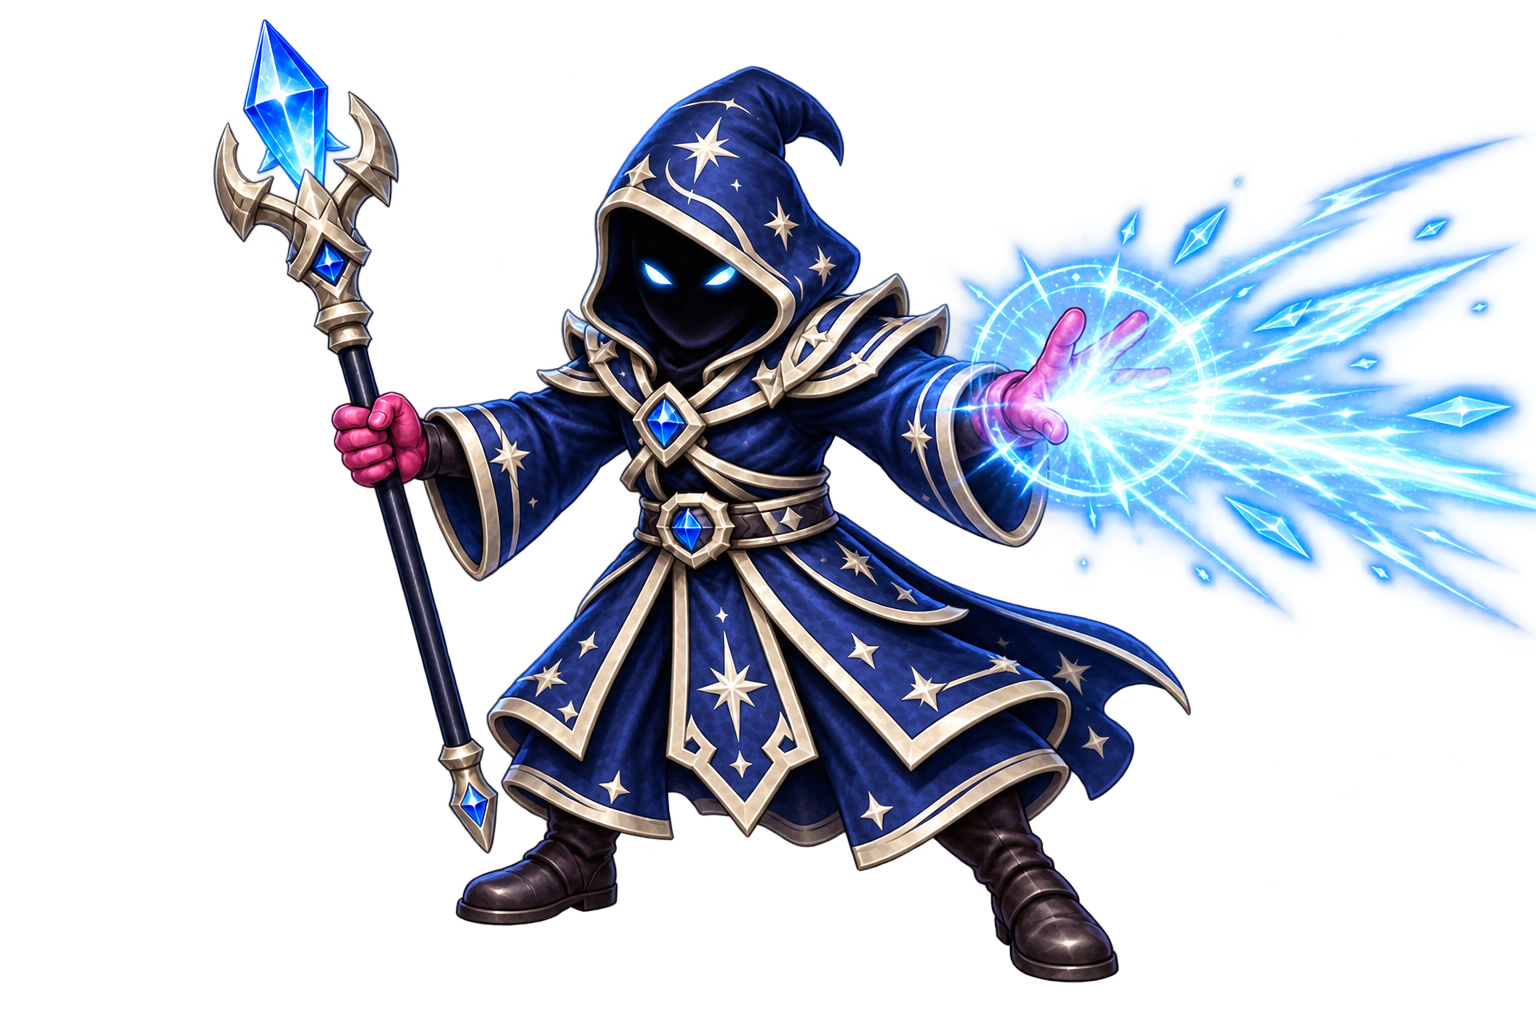
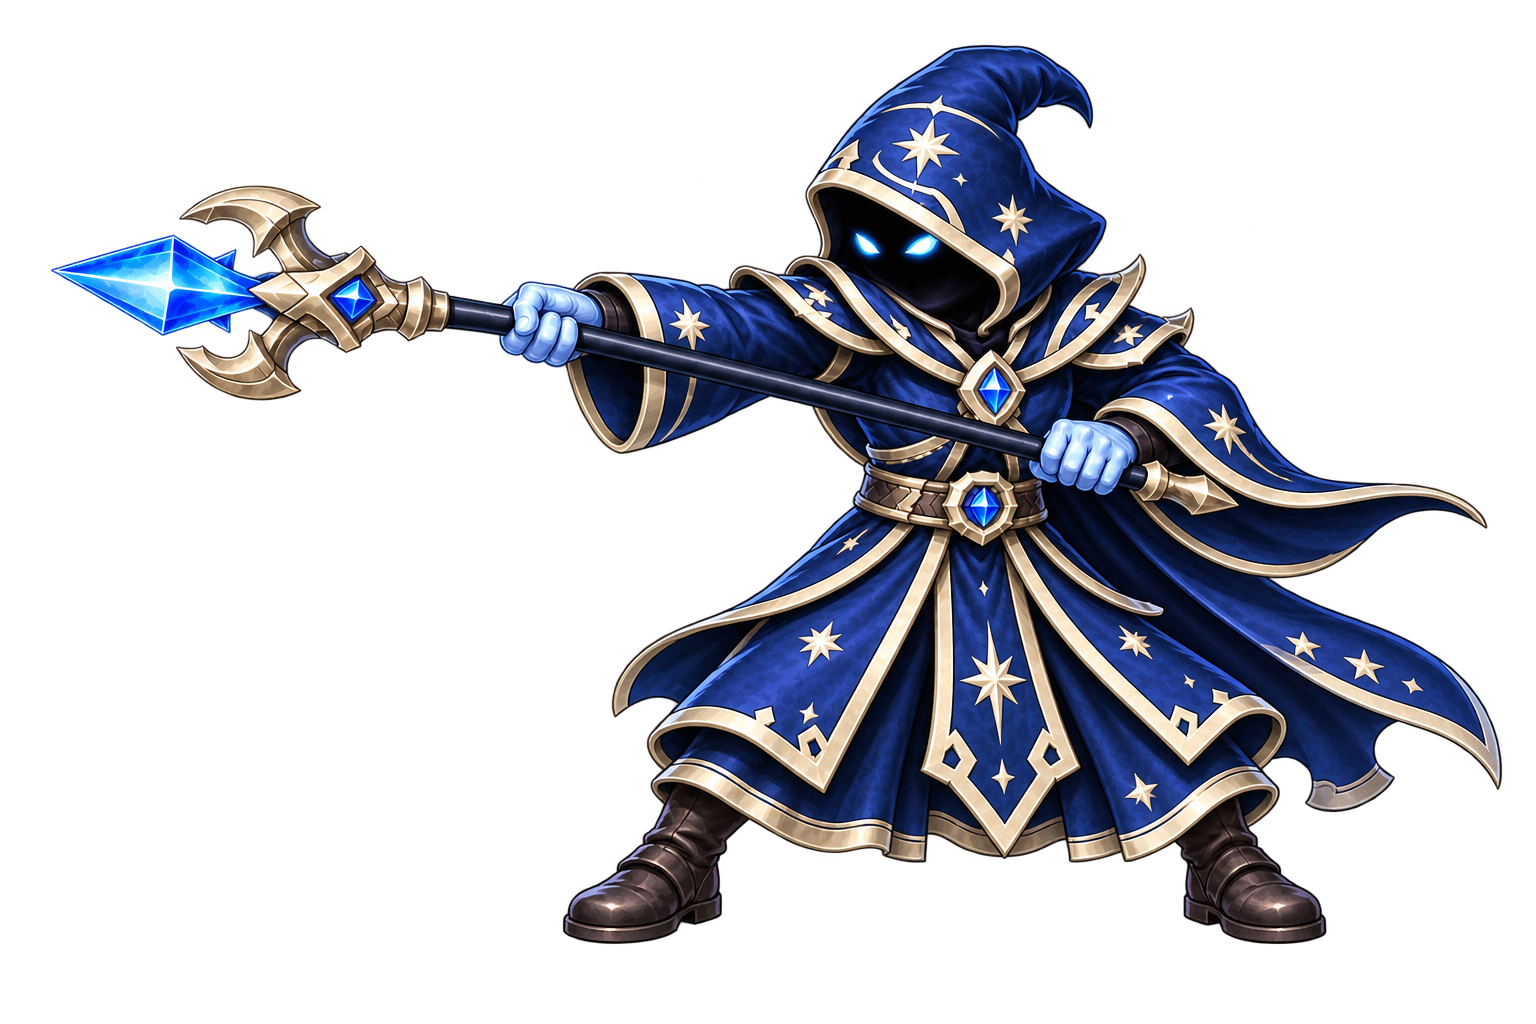
Simplifica tienda, permite elegir trajes comprados y corrige poses de skins

diff --git a/js/app.js b/js/app.js
@@ -1258,8 +1258,14 @@ function saldoTiendaOMonedas(respaldo = monedas) {
   catch (_) { return respaldo; }
 }
 monedas = saldoTiendaOMonedas();
+// Las herramientas de autor solo están disponibles en una copia local.
+const herramientasAutorDisponibles = ['localhost', '127.0.0.1', '[::1]'].includes(location.hostname) || location.protocol === 'file:';
+for (const selector of ['#btnAbrirPruebasMenu', '.control-modo-pruebas']) {
+  document.querySelector(selector)?.toggleAttribute('hidden', !herramientasAutorDisponibles);
+}
 globalThis.AventuraShop = Object.freeze({
   tryOn: (character) => {
+    if (!herramientasAutorDisponibles) throw Error('Las pruebas solo están disponibles en desarrollo local.');
     if(partidaOnlineVersus)throw Error('Terminá el duelo en línea antes de probar un traje.');
     actualizarModoPruebas(true);
     iniciarPruebaVersusLocal();
@@ -1689,6 +1695,7 @@ function actualizarSeleccionPersonajeRemota(sala) {
   const rivalListo = Boolean(jugadorRival?.listo);
   actualizarDisponibilidadPersonajesVersus({ seleccionBloqueada: propioListo });
   btnConfirmarPersonajeVersus.disabled = propioListo;
+  actualizarSelectorTrajeVersus();
 
   estadoPersonajePropioVersus.className = propioListo ? "listo" : "";
   estadoPersonajePropioVersus.textContent = propioListo
@@ -2493,7 +2500,44 @@ function seleccionarPersonajeVersus(personaje) {
     tarjeta.setAttribute("aria-checked", `${seleccionada}`);
   });
   btnConfirmarPersonajeVersus.textContent = `Luchar con ${personajesVersus[personaje].nombre}`;
+  actualizarSelectorTrajeVersus();
 }
+
+function actualizarSelectorTrajeVersus() {
+  const panel = document.getElementById('selectorTrajesDuelo');
+  if (!panel || !globalThis.CosmeticStore) return;
+  const opciones = document.getElementById('opcionesTrajesDuelo');
+  try {
+    const state = CosmeticStore.read();
+    const disponibles = CosmeticStore.catalog.filter(item => item.character === personajeJugadorVersus && state.owned.includes(item.id));
+    panel.hidden = disponibles.length === 0;
+    const trajes = [{id: null, name: 'Original'}, ...disponibles];
+    opciones.replaceChildren(...trajes.map(item => {
+      const button = document.createElement('button');
+      button.type = 'button';
+      button.disabled = btnConfirmarPersonajeVersus.disabled;
+      button.setAttribute('aria-pressed', String((state.equipped[personajeJugadorVersus] || null) === item.id));
+      const img = document.createElement('img');
+      img.src = item.id ? CosmeticStore.asset(item.id) : personajesVersus[personajeJugadorVersus].base;
+      img.alt = '';
+      const nombre = document.createElement('span');
+      nombre.textContent = item.name;
+      button.append(img, nombre);
+      button.addEventListener('click', () => {
+        if (btnConfirmarPersonajeVersus.disabled) return;
+        try {
+          CosmeticStore.equip(personajeJugadorVersus, item.id);
+          window.dispatchEvent(new Event('costume-equipped'));
+        } catch (error) { estadoPersonajePropioVersus.textContent = error.message; }
+      });
+      return button;
+    }));
+  } catch (error) {
+    panel.hidden = true;
+    estadoPersonajePropioVersus.textContent = error.message;
+  }
+}
+window.addEventListener('costume-equipped', actualizarSelectorTrajeVersus);
 
 function cargarPersonajesDesbloqueados() {
   try {
@@ -2597,6 +2641,7 @@ function abrirSeleccionPersonajeVersus() {
   if (modoArcadeActivo) {
     btnConfirmarPersonajeVersus.disabled = false;
     actualizarDisponibilidadPersonajesVersus();
+    actualizarSelectorTrajeVersus();
     estadoPersonajePropioVersus.className = "";
     estadoPersonajePropioVersus.textContent = "Elegí con quién subirás la torre.";
     estadoPersonajeRivalVersus.className = "listo";
@@ -3139,6 +3184,7 @@ btnConfirmarPersonajeVersus.addEventListener("click", async () => {
 
   btnConfirmarPersonajeVersus.disabled = true;
   tarjetasPersonajesVersus.forEach((tarjeta) => { tarjeta.disabled = true; });
+  actualizarSelectorTrajeVersus();
   estadoPersonajePropioVersus.className = "";
   estadoPersonajePropioVersus.textContent = "Guardando tu elección…";
   try {
@@ -3152,6 +3198,7 @@ btnConfirmarPersonajeVersus.addEventListener("click", async () => {
     estadoPersonajePropioVersus.textContent = error.message || "No pudimos guardar tu personaje.";
     btnConfirmarPersonajeVersus.disabled = false;
     actualizarDisponibilidadPersonajesVersus();
+    actualizarSelectorTrajeVersus();
   }
 });
 
@@ -7439,6 +7486,19 @@ function reproducirAtaqueBumeranVersus() {
   programarPasoAtaqueVersus(limpiarAnimacionAtaqueJugadorVersus, 1510, "jugador");
 }
 
+function alinearPoderCelestial(actor, proyectil, jugador) {
+  proyectil.style.removeProperty('--mago-inicio');
+  proyectil.style.removeProperty('--mago-altura');
+  if (trajePersonajeVersus(actor, 'mago') !== 'zafir-celestial') return;
+  const rect = actor.getBoundingClientRect(), marco = proyectil.offsetParent.getBoundingClientRect();
+  // La imagen de ataque es horizontal (3:2); el cristal está al frente del báculo.
+  const ancho = Math.min(rect.width, rect.height * 1.5), alto = ancho / 1.5;
+  const x = rect.left + (rect.width - ancho) / 2 + ancho * (jugador ? .96 : .04);
+  const y = rect.bottom - alto + alto * .27;
+  proyectil.style.setProperty('--mago-inicio', `${100 * (jugador ? x - marco.left : marco.right - x) / marco.width}%`);
+  proyectil.style.setProperty('--mago-altura', `${100 * (y - marco.top) / marco.height}%`);
+}
+
 function reproducirAtaqueMagoJugadorVersus() {
   limpiarAnimacionAtaqueJugadorVersus();
   herramientasPruebasVersus.classList.add("ataque-en-curso");
@@ -7461,6 +7521,7 @@ function reproducirAtaqueMagoJugadorVersus() {
     establecerPoseCombateVersus(personajeVersusUno, "ataque", srcMagoAtaqueVersus);
     personajeVersusUno.classList.remove("concentrando-hechizo");
     personajeVersusUno.classList.add("lanzando-hechizo");
+    alinearPoderCelestial(personajeVersusUno, proyectilMagoJugadorVersus, true);
     void proyectilMagoJugadorVersus.offsetWidth;
     proyectilMagoJugadorVersus.classList.add("volando");
     reproducirSonidoVersus("versusAtaqueUno", 0.72);
@@ -7780,6 +7841,7 @@ function reproducirAtaqueMagoVersus() {
     establecerPoseCombateVersus(personajeVersusDos, "ataque", srcMagoAtaqueVersus);
     personajeVersusDos.classList.remove("concentrando-hechizo");
     personajeVersusDos.classList.add("lanzando-hechizo");
+    alinearPoderCelestial(personajeVersusDos, proyectilMagoVersus, false);
     void proyectilMagoVersus.offsetWidth;
     proyectilMagoVersus.classList.add("volando");
     reproducirSonidoVersus("versusAtaqueUno", 0.72);
@@ -9873,7 +9935,7 @@ function actualizarControlesDev() {
 }
 
 function actualizarModoPruebas(activar, { restaurarProgreso = true } = {}) {
-  modoPruebasActivo = Boolean(activar);
+  modoPruebasActivo = herramientasAutorDisponibles && Boolean(activar);
   modoPruebas.checked = modoPruebasActivo;
   panelModoPruebas.classList.toggle("oculto", !modoPruebasActivo);
   btnCompletarPalabrasPruebasVersus.classList.toggle("oculto", !modoPruebasActivo);

diff --git a/index.html b/index.html
@@ -36,9 +36,9 @@
     <link rel="apple-touch-icon" sizes="180x180" href="assets/icons/apple-touch-icon.png">
     <link rel="preload" as="audio" href="assets/sounds/melodia-menu.mp3" type="audio/mpeg">
     <link rel="preload" as="image" href="assets/images/fondos/menu-inicio-aventura.png">
-    <link rel="stylesheet" href="css/styles.css?v=20260922-relampago-1">
+    <link rel="stylesheet" href="css/styles.css?v=20260923-trajes-2">
     <link rel="stylesheet" href="css/menu-navigation.css?v=20260921-social-mapa-1">
-    <link rel="stylesheet" href="css/cosmetic-shop.css?v=20260923-trajes-1">
+    <link rel="stylesheet" href="css/cosmetic-shop.css?v=20260923-trajes-2">
     <link rel="stylesheet" href="css/azrak-world.css?v=20260913-runas-viento-captura-1">
     <link rel="stylesheet" href="css/kairos-forest.css?v=20260908-cinematicas-1">
     <link rel="preload" as="image" href="assets/images/intro/libro-intro-sin-cristal.png">
@@ -86,7 +86,7 @@
                 <h2 class="studio">GA Games</h2>
                 <h1 class="titulo">Aventura de Palabras</h1>
                 <p class="subtitulo">Explorá mundos resolviendo palabras</p>
-                <div class="menu-perfil"><button id="btnMiAvatar" type="button" aria-label="Abrir mi perfil"><span id="avatarMenu"></span><span>Mi perfil <span aria-hidden="true">›</span></span></button><button id="btnAbrirPruebasMenu" type="button" aria-haspopup="dialog" aria-controls="modalConfiguracion">Modo prueba</button></div>
+                <div class="menu-perfil"><button id="btnMiAvatar" type="button" aria-label="Abrir mi perfil"><span id="avatarMenu"></span><span>Mi perfil <span aria-hidden="true">›</span></span></button><button id="btnAbrirPruebasMenu" hidden type="button" aria-haspopup="dialog" aria-controls="modalConfiguracion">Modo prueba</button></div>
 
                 <button id="btnJugar" type="button" aria-haspopup="dialog" aria-controls="mapaAventura">🗺 Aventura</button>
                 <button id="btnModosJuego" type="button" aria-haspopup="dialog">⚔ Modos de juego</button>
@@ -124,7 +124,7 @@
                     </label>
                     <p id="estadoVibracion" class="estado-vibracion" aria-live="polite"></p>
                     <button id="btnNuevaAventura" class="secundario oculto" type="button">Empezar una nueva aventura</button>
-                    <label class="control-modo-pruebas" for="modoPruebas">
+                    <label class="control-modo-pruebas" hidden for="modoPruebas">
                         <input id="modoPruebas" type="checkbox">
                         <span>Modo Pruebas</span>
                     </label>
@@ -686,6 +686,10 @@
                     </button>
                 </div>
 
+                <fieldset id="selectorTrajesDuelo" hidden>
+                    <legend>Elegí tu traje</legend>
+                    <div id="opcionesTrajesDuelo"></div>
+                </fieldset>
                 <div class="estado-personajes-remotos" aria-live="polite">
                     <span id="estadoPersonajePropioVersus">Eleg&iacute; tu personaje.</span>
                     <span id="estadoPersonajeRivalVersus">Tu rival est&aacute; eligiendo&hellip;</span>
@@ -1495,9 +1499,9 @@
         <div id="tiendaTrajesCatalogo" class="tienda-trajes-catalogo" aria-label="Elegí un traje para verlo"></div>
         <section class="tienda-traje-vista" aria-labelledby="tiendaTrajeNombre">
           <div class="tienda-traje-escena"><img id="tiendaTrajeImagen" alt="Vista previa del traje"></div>
-          <div class="tienda-traje-ficha"><small id="tiendaTrajeHeroe"></small><h3 id="tiendaTrajeNombre"></h3><p id="tiendaTrajeDetalle"></p><div id="tiendaTrajePoses" class="tienda-traje-poses" aria-label="Probar las poses del traje"></div><p class="avatar-note">Apariencia para los duelos. No cambia las habilidades ni el poder del personaje.</p><button id="comprarTraje" type="button">Comprar traje</button><button id="equiparTraje" type="button" hidden>Equipar traje</button><button id="restaurarTraje" class="secundario" type="button" hidden>Usar traje original</button></div>
+          <div class="tienda-traje-ficha"><small id="tiendaTrajeHeroe"></small><h3 id="tiendaTrajeNombre"></h3><p id="tiendaTrajeDetalle"></p><p class="avatar-note">Nueva apariencia.</p><button id="comprarTraje" type="button">Comprar traje</button><button id="equiparTraje" type="button" hidden>Equipar traje</button><button id="restaurarTraje" class="secundario" type="button" hidden>Usar traje original</button></div>
         </section>
-        <button id="probarTrajeGratis" type="button">Probar gratis en combate y cinemáticas</button><p id="tiendaTrajesEstado" role="status" aria-live="polite"></p>
+        <p id="tiendaTrajesEstado" role="status" aria-live="polite"></p>
         <p class="avatar-note">Las monedas y los trajes se conservan en este dispositivo, incluso al empezar otra aventura.</p>
         <section class="tienda-vista" aria-labelledby="tiendaMarcoNombre"><span id="tiendaAvatarPreview"></span><div><small>VISTA PREVIA</small><h3 id="tiendaMarcoNombre"></h3><p id="tiendaMarcoDetalle"></p><button id="tiendaAplicarMarco" type="button">Usar marco gratis</button></div></section>
         <h3 class="tienda-seccion">Colección de marcos · Gratis</h3>
@@ -1551,7 +1555,7 @@
       </div>
       <button id="reintentarPerfilPublico" class="secundario" type="button" hidden>Reintentar</button>
     </dialog>
-    <script src="js/cosmetic-store.js?v=20260923-trajes-1"></script>
+    <script src="js/cosmetic-store.js?v=20260923-trajes-2"></script>
     <script src="js/versus-ranks.js?v=20260922-medallas-3"></script>
     <script src="js/player-avatar.js?v=20260922-medallas-3"></script>
     <script src="js/versus-identity.js?v=20260915-social-1"></script>
@@ -1561,7 +1565,7 @@
     <script src="js/supabase-client.js?v=20260817-amigos-cuentas-1"></script>
     <script src="js/versus-engine.js?v=20260817-versus-recuperacion-1"></script>
     <script src="js/versus-room.js?v=20260922-alias-1"></script>
-    <script src="js/versus-room-supabase.js?v=20260923-trajes-1"></script>
+    <script src="js/versus-room-supabase.js?v=20260923-trajes-2"></script>
     <script src="js/adventure-puzzles.js?v=20260827-puzzles-cumbres-1"></script>
     <script src="js/azrak-world.js?v=20260914-busqueda-ranking"></script>
     <script src="js/prologue-cinematic.js?v=20260921-tienda-1"></script>
@@ -1570,8 +1574,8 @@
     <script src="js/kairos-forest.js?v=20260909-musica-continua-1"></script>
     <script src="js/kalamo-desert.js?v=20260909-arco-aren-1"></script>
     <script src="js/world-word-hazards.js?v=20260914-jaula-fuego"></script>
-    <script src="js/app.js?v=20260923-trajes-1"></script>
-    <script src="js/cosmetic-shop.js?v=20260923-trajes-1"></script>
+    <script src="js/app.js?v=20260923-trajes-2"></script>
+    <script src="js/cosmetic-shop.js?v=20260923-trajes-2"></script>
     <script src="js/public-player-profile.js?v=20260922-medallas-3"></script>
     <script src="js/pwa.js?v=20260909-recuperar-actualizacion-1"></script>
 </body>

diff --git a/js/cosmetic-shop.js b/js/cosmetic-shop.js
@@ -1,8 +1,7 @@
 (() => {
   'use strict';
   const el=id=>document.getElementById(id),store=CosmeticStore;
-  let selected=store.catalog[0].id,pose='base',busy=false;
-  const labels={base:'En reposo',preparacion:'Preparación',ataque:'Ataque',habilidad:'Habilidad',impacto:'Al recibir un golpe'};
+  let selected=store.catalog[0].id,busy=false;
   function announce(message){el('tiendaTrajesEstado').textContent=message;}
   function render(){
     try {
@@ -11,15 +10,15 @@
       el('tiendaTrajeHeroe').textContent=item.hero;
       el('tiendaTrajeNombre').textContent=item.name;
       el('tiendaTrajeDetalle').textContent=item.description;
-      el('tiendaTrajeImagen').src=store.asset(item.id,pose);
-      el('tiendaTrajeImagen').alt=`${item.hero} · ${item.name} · ${labels[pose]}`;
+      el('tiendaTrajeImagen').src=store.asset(item.id);
+      el('tiendaTrajeImagen').alt=`${item.hero} · ${item.name}`;
+      el('tiendaTrajeImagen').classList.toggle('retrato-zafir', item.character === 'mago');
       const testing=globalThis.AventuraShop?.testing();
       const buy=el('comprarTraje');buy.hidden=owned;buy.disabled=busy||testing||state.coins<item.price;
       buy.textContent=testing?'Volvé del modo de prueba para comprar':state.coins<item.price?`Te faltan ${item.price-state.coins} monedas`:`Comprar por ${item.price} monedas`;
       const equip=el('equiparTraje');equip.hidden=!owned;equip.disabled=busy||equipped;equip.textContent=equipped?'Traje equipado':'Equipar traje';
       el('restaurarTraje').hidden=!state.equipped[item.character];el('restaurarTraje').disabled=busy;
       for(const button of el('tiendaTrajesCatalogo').children){const data=store.find(button.dataset.skin);button.setAttribute('aria-pressed',String(data.id===selected));button.querySelector('small').textContent=state.equipped[data.character]===data.id?'Equipado':state.owned.includes(data.id)?'En tu colección':`${data.price} monedas`;}
-      el('tiendaTrajePoses').replaceChildren(...item.poses.map(key=>{const b=document.createElement('button');b.type='button';b.textContent=labels[key];b.setAttribute('aria-pressed',String(key===pose));b.addEventListener('click',()=>{pose=key;render();});return b;}));
     } catch(error){announce(error.message);el('comprarTraje').disabled=true;el('equiparTraje').disabled=true;}
   }
   async function action(callback){
@@ -37,12 +36,11 @@
     const hero=document.createElement('span');hero.textContent=item.hero;
     const title=document.createElement('strong');title.textContent=item.name;
     b.append(img,hero,title,document.createElement('small'));
-    b.addEventListener('click',()=>{selected=item.id;pose='base';announce('');render();});el('tiendaTrajesCatalogo').append(b);
+    b.addEventListener('click',()=>{selected=item.id;announce('');render();});el('tiendaTrajesCatalogo').append(b);
   }
   el('comprarTraje').addEventListener('click',()=>{const id=selected;void action(()=>{if(globalThis.AventuraShop?.testing())throw Error('Las monedas de prueba no se pueden gastar.');store.purchase(id);return '¡Traje comprado! Ya podés equiparlo.';});});
   el('equiparTraje').addEventListener('click',()=>{const item=store.find(selected);void action(()=>{store.equip(item.character,item.id);return `¡${item.hero} lleva ${item.name}!`;});});
   el('restaurarTraje').addEventListener('click',()=>{const item=store.find(selected);void action(()=>{store.equip(item.character,null);return `${item.hero} volvió a su traje original.`;});});
-  el('probarTrajeGratis').addEventListener('click',()=>{try{globalThis.AventuraShop.tryOn(store.find(selected).character);el('tiendaMenu').close();}catch(error){announce(error.message);}});
   el('btnTienda').addEventListener('click',()=>{announce('');render();});
   window.addEventListener('storage',event=>{if(event.key===store.key){globalThis.AventuraShop?.sync();window.dispatchEvent(new Event('costume-equipped'));if(el('tiendaMenu').open)render();}});
   window.dispatchEvent(new Event('costume-equipped'));

diff --git a/css/cosmetic-shop.css b/css/cosmetic-shop.css
@@ -6,6 +6,14 @@
 @media(orientation:landscape) and (max-height:500px){.tienda-traje-escena{min-height:200px}.tienda-traje-escena img{height:220px}}
 .herramientas-pruebas-versus label { display: inline-flex; align-items: center; flex-wrap: wrap; gap: .3rem; }
 .herramientas-pruebas-versus select { max-width: 180px; }
+[hidden] { display: none !important; }
+#selectorTrajesDuelo { margin: 16px 0; border: 1px solid #d6bb7166; border-radius: 12px; color: #ffe4a5; }
+#opcionesTrajesDuelo { display: flex; justify-content: center; flex-wrap: wrap; gap: 12px; }
+#opcionesTrajesDuelo button { display: grid; justify-items: center; width: 145px; max-width: 42%; padding: 8px; margin: 0; border: 2px solid transparent; border-radius: 10px; background: #182b40; color: #fff0c9; }
+#opcionesTrajesDuelo button[aria-pressed=true] { border-color: #f4d17a; background: #354761; }
+#opcionesTrajesDuelo img { width: 100%; height: 100px; object-fit: contain; }
+.tienda-trajes-catalogo [data-skin="zafir-celestial"] img,
+.tienda-traje-escena img.retrato-zafir { object-fit: cover; object-position: center; }
 .proyectil-mago-versus.zafir-celestial { filter: hue-rotate(-70deg) drop-shadow(0 0 8px #a8f2ff) drop-shadow(0 0 16px #42baff); }
 .zafir-celestial .cinematica-remolino-arcano img { filter: hue-rotate(-70deg) drop-shadow(0 0 12px #8ce7ff) drop-shadow(0 0 28px #40aaff); }
 .zafir-celestial .zafir-mota { fill: #d3f7ff; filter: drop-shadow(0 0 5px #6ccfff); }

diff --git a/sw.js b/sw.js
@@ -1,5 +1,5 @@
 const CACHE_PREFIX = "aventura-palabras-runtime-";
-const CACHE_NAME = `${CACHE_PREFIX}v297`;
+const CACHE_NAME = `${CACHE_PREFIX}v298`;
 const LEGACY_CACHE_NAMES = new Set([
   `${CACHE_PREFIX}v227`,
   `${CACHE_PREFIX}v226`,
@@ -654,6 +654,8 @@ const ASSET_REVISIONS = {
   "./assets/images/puzzles/lume-camara-alterada-v1.png": "20260914-siete-diferencias-1",
   "./assets/images/ui/juramentos-medallones-v1.png": "20260914-juramentos-ilustrados-1",
   "./assets/images/personajes/versus/mago-ataque.png": "20260914-zafir-mano-abierta-1",
+  "./assets/images/trajes/zafir-celestial-ataque-v1.png": "20260923-trajes-2",
+  "./assets/images/trajes/kairos-real-ataque-v1.png": "20260923-trajes-2",
   "./css/world-word-hazards.css": "20260914-jaula-fuego",
   "./js/world-word-hazards.js": "20260914-jaula-fuego",
   "./": "20260922-alias-1",

diff --git a/css/styles.css b/css/styles.css
@@ -5182,7 +5182,7 @@ button:disabled {
 .proyectil-mago-versus {
     position: absolute;
     z-index: 4;
-    top: 43%;
+    top: var(--mago-altura, 43%);
     right: 22%;
     width: clamp(92px, 13vw, 156px);
     opacity: 0;
@@ -5318,7 +5318,7 @@ button:disabled {
 
 @keyframes vueloProyectilMagoVersus {
     0% {
-        right: 22%;
+        right: var(--mago-inicio, 22%);
         opacity: 0;
         transform: translate(50%, -50%) scale(0.55) rotate(3deg);
     }
@@ -5342,7 +5342,7 @@ button:disabled {
 
 @keyframes vueloProyectilMagoJugadorVersus {
     0% {
-        left: 22%;
+        left: var(--mago-inicio, 22%);
         opacity: 0;
         transform: translate(-50%, -50%) scaleX(-1) scale(0.55) rotate(-3deg);
     }

diff --git a/tools/costume-attack-assets.md b/tools/costume-attack-assets.md
@@ -1,0 +1,17 @@
+# Trajes: revisión del 23 de septiembre de 2026
+
+Herramienta: ImageGen integrada. Los sprites originales de Zafir y Kairós se conservan sin cambios.
+
+Archivos finales:
+- `assets/images/trajes/zafir-celestial-ataque-v1.png`
+- `assets/images/trajes/kairos-real-ataque-v1.png`
+
+Prompt final de Zafir (referencias: pose de báculo generada y traje Celestial existente):
+
+> Create Celestial costume variant of FIRST image game sprite. Keep FIRST image EXACT pose, proportions, framing, two hands gripping nearly horizontal staff aiming LEFT, full body. Change ONLY costume colors and decorations to match SECOND image: navy blue robes with pale silver ivory trim and stars, icy cyan crystal and cyan eyes. No hand casting, no rays, no beam, no projectiles anywhere. Same character same pose as first image, only costume different. Real transparent alpha background (no opaque black or colored backdrop), no surrounding haze. 1536x1024 PNG full body with margins.
+
+Prompt final de Kairós (referencias: ataque original y traje Relojero Real existente):
+
+> Use case identity-preserve. Edit FIRST game sprite ONLY costume coloration to the Royal costume palette from SECOND image: burgundy red coat, ivory and gold trim, dark trousers, golden clockwork details. Strict invariant: preserve FIRST image EXACT attack pose and composition including lunging body, bent leg, extended front leg, arm sweeping clock blade on LEFT, empty open hand extended RIGHT, floating hourglass above right shoulder, same head face hairstyle and cyan eyes. Do NOT use SECOND image pose. Preserve first sprite size and scale on 1536x1024 canvas. Preserve thin cyan/gold attack arc, but remove any checkerboard pixels inside arc to actual transparency. Full body fully in frame. Transparent alpha background with no backdrop or diffuse surrounding haze. Output game-ready PNG.
+
+Validación: transparencia, poses en ambos lados del duelo a 844×390, tienda a 390×844 y 1365×900, compra y selección de traje propio, bloqueo tras confirmar, pruebas de autor únicamente en localhost o archivo local.
